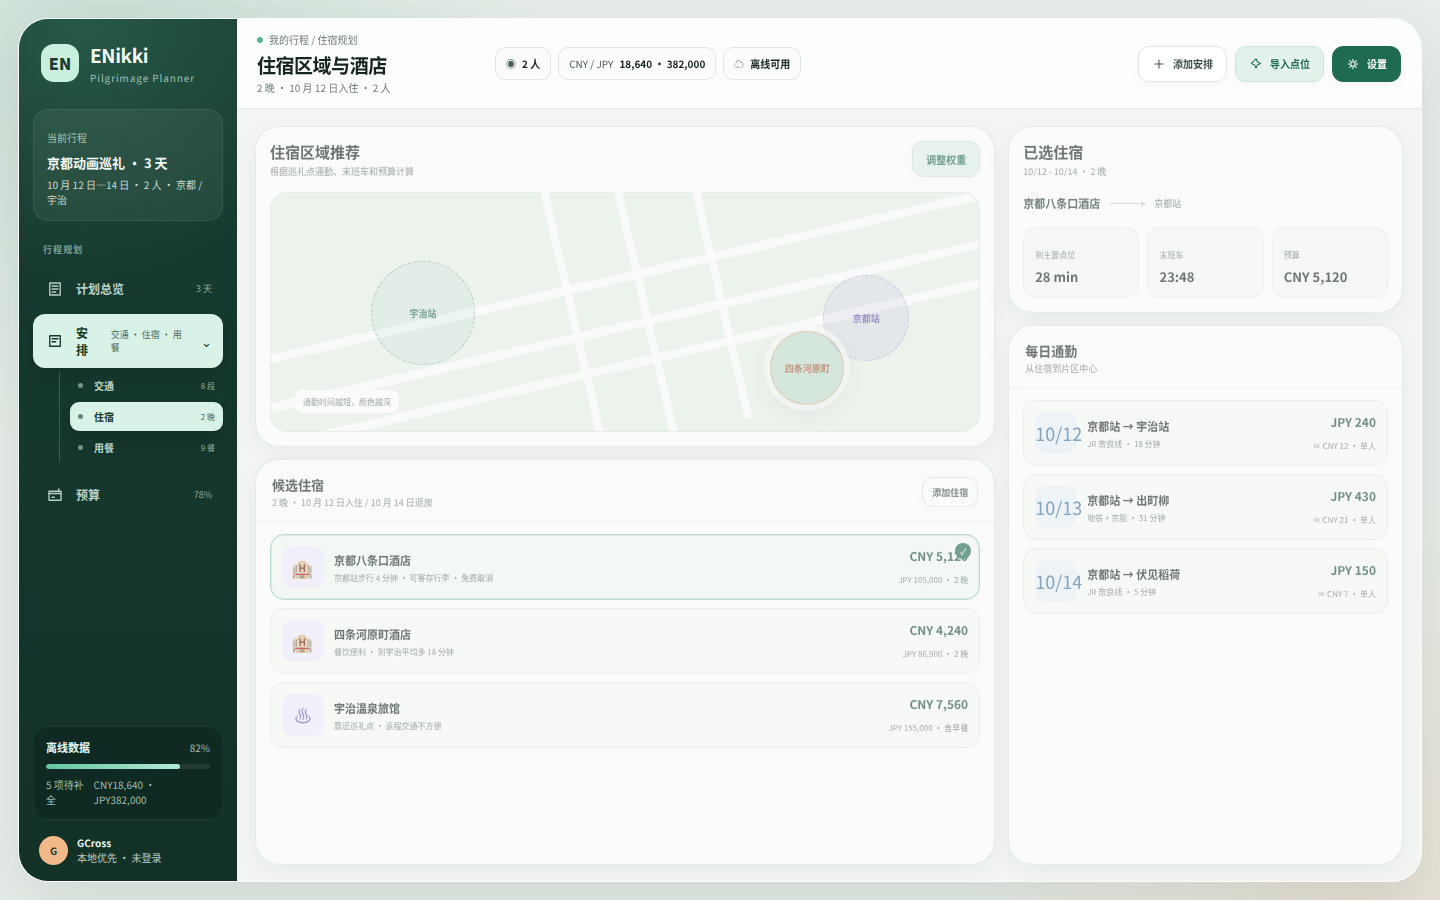
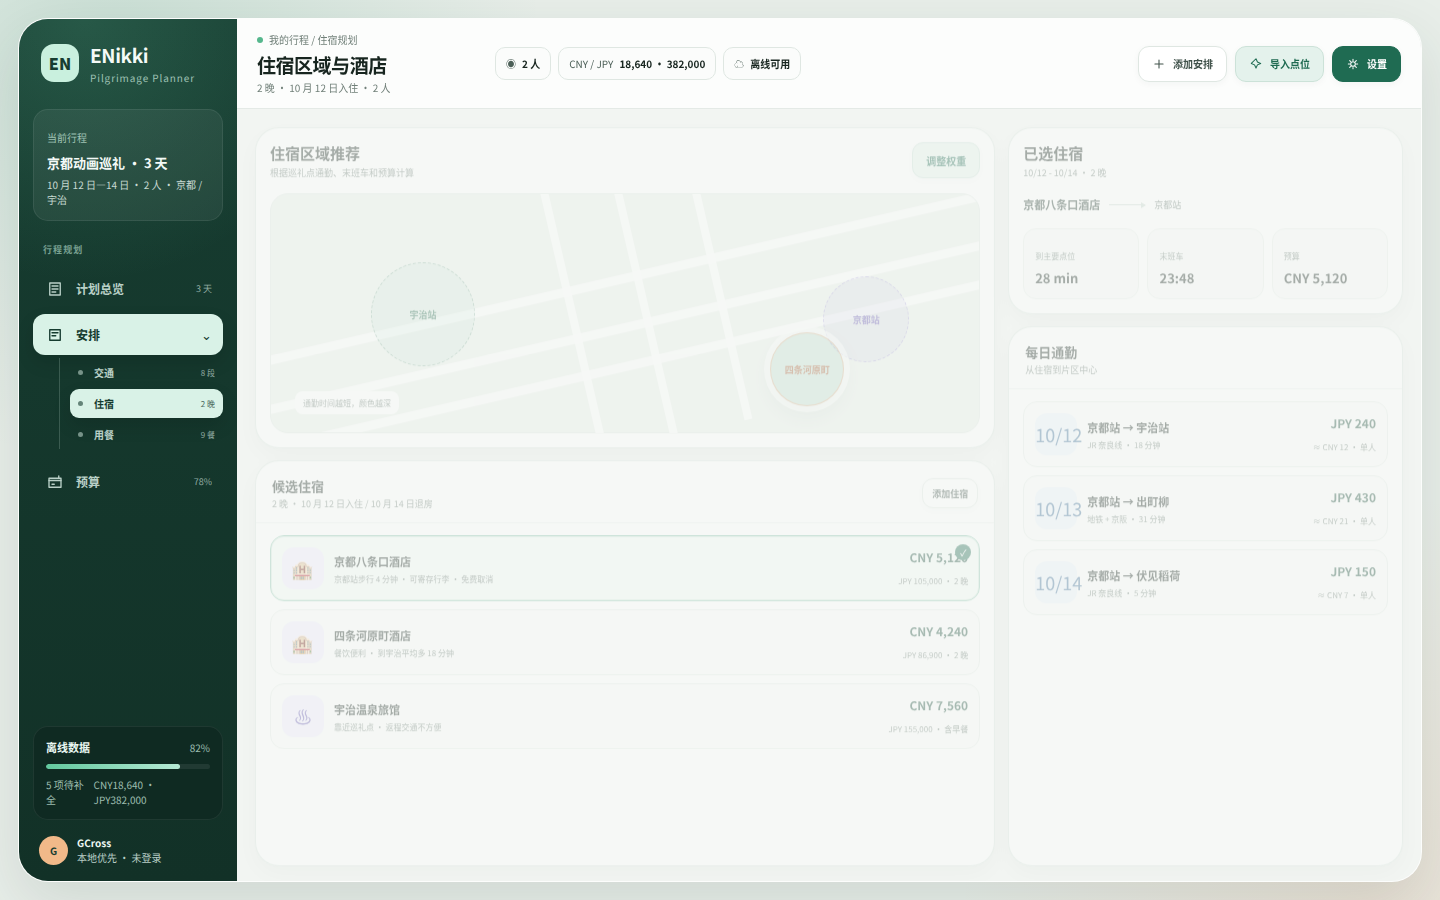
design: remove redundant arrange description

diff --git a/design/enikki-ui.html b/design/enikki-ui.html
@@ -158,7 +158,7 @@ button,input{font:inherit}button{border:0;cursor:pointer}svg{display:block}
       </button>
       <button class="nav-group desktop-only" data-nav-group="arrange">
         <span class="ico"><svg viewBox="0 0 24 24"><path d="M5 5h14v14H5z"/><path d="M8 9h8M8 13h5"/></svg></span>
-        <b>安排</b><em>交通 · 住宿 · 用餐</em><span class="nav-chevron">⌄</span>
+        <b>安排</b><span class="nav-chevron">⌄</span>
       </button>
       <div class="nav-submenu desktop-only" id="submenu-arrange">
         <button data-view="transport"><span class="sub-dot"></span><b>交通</b><em>8 段</em></button>
